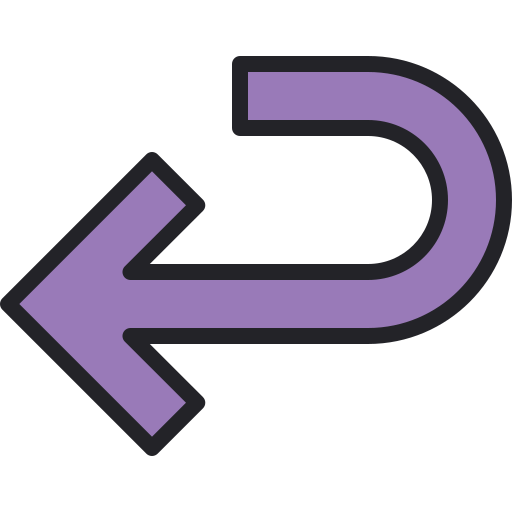
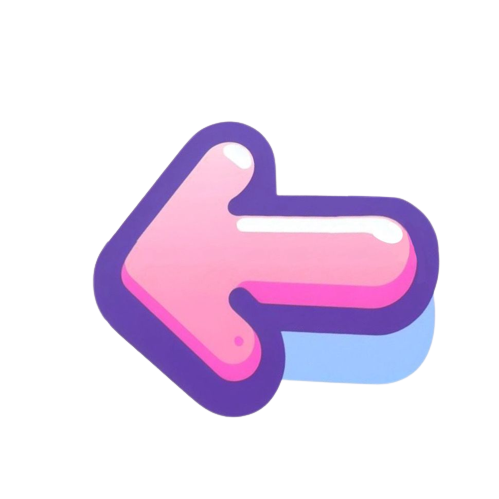
button responsive and back button

diff --git a/styles.css b/styles.css
@@ -1,27 +1,3 @@
-.bingo-board .container {
-    width: calc(33.33% - 10px); /* Ajusta el ancho según tus necesidades */
-    margin: 5px; /* Espacio entre los elementos */
-    text-align: center; /* Alinea el contenido en el centro */
-    background-color: #f0f0f0; /* Color de fondo opcional */
-    border: 1px solid #999; /* Borde opcional */
-  }
-  
-  /* Estilos para pantallas más pequeñas (menos de 600px) */
-  @media (max-width: 600px) {
-    .bingo-board {
-      width: calc(50% - 10px); /* Ajusta el ancho para dos columnas */
-    }
-  }
-  
-  /* Estilos para pantallas aún más pequeñas (menos de 400px) */
-  @media (max-width: 400px) {
-    .bingo-board {
-      width: calc(100% - 10px); /* Un solo elemento por fila */
-    }
-  }
-  
-
-
 body {
     font-family: Arial, sans-serif;
     text-align: center;
@@ -82,7 +58,7 @@ body {
     background-color: #FEB7C9ff;
     display: flex;
     justify-content: space-around;
-    max-width: 20%;
+    max-width: 300px;
     flex: 1;
 }
 
@@ -109,7 +85,7 @@ body {
 .bingo-image-container {
     max-width: 100px;
     width: 100%;
-    background-color: rgb(240, 205, 214);
+    background-color: #FEB7C9ff;
     height: 100px;
     overflow: hidden;
     display: flex;
@@ -120,6 +96,7 @@ body {
 }
 
 .bingo-image-container img {
+    background-color: #FEB7C9ff;
     max-width: 80%;
 }
 
@@ -147,11 +124,17 @@ body {
 .bingo-images-container {
     max-height: 300px;
     overflow-y: auto;
+    background-color: #FEB7C9ff;
     padding: 5px;
     border-radius: 10px;
     box-shadow: 0 0 10px rgba(0, 0, 0, 0.2);
 }
 
+.responsive {
+    display: flex;
+    flex-wrap: wrap;
+    justify-content: space-between;
+}
 
 .bingo-images-container img {
     max-width: 45%;
@@ -208,10 +191,30 @@ body {
 }
 
 .bingo-cell:first-child {
-    background-color: #FEE5A2ff;
+    background-color: #FEB7C9ff;
     color: white;
 }
 
+
+@media screen and (max-width: 768px) {
+    .title {
+        font-size: 24px;
+    }
+    .p {
+        font-size: 18px;
+    }
+    
+    .bingo-board {
+        grid-template-columns: repeat(5, 1fr); /* Cambia a 5 columnas  */
+    }
+
+    .bingo-number {
+        font-size: 1rem; 
+        height: 40px; 
+        width: 40px; 
+    }
+
+}
 
 .bottom-right-container {
     position: fixed;
@@ -233,6 +236,11 @@ body {
     padding: 5px;
 }
 
+.responsive {
+    display: flex;
+    flex-wrap: wrap;
+    justify-content: space-between;
+}
 
 .bingo-images-container img {
     max-width: 80px;
@@ -260,5 +268,27 @@ body {
     
 }
 
+.rotate-button {
+    border: none;
+    background: none;
+    cursor: pointer;
+    display: flex;
+    align-items: center;
+    justify-content: center;
+}
 
+.rotate-button img {
+    width: 24px; /* Adjust the width according to your image */
+    height: 24px; /* Adjust the height according to your image */
+}
+
+.button-atras{
+    background-color: #FEB7C9ff;
+    color: rgb(82, 34, 104);
+    font-family: 'ARCO', sans-serif;
+    max-width: 35px;
+    max-height: 50px;
+    flex: 1;
+    
+}
 

diff --git a/juego.html b/juego.html
@@ -17,6 +17,11 @@
 <body>
     <div class="bingo-container">
         <div class="top-row">
+            <div class="container button-atras">
+                <button class="rotate-button" onclick="location.href='index.html'">
+                    <img src="img/girar-a-la-izquierda.png" alt="Rotate Button">
+                </button>
+            </div>
             <div class="container title-container">
                 <h1>Bingo Go</h1>
             </div>

diff --git a/tarjetas.css b/tarjetas.css
@@ -45,7 +45,7 @@ a:hover {
     justify-items: center;
 }
 
-.button {
+.rotate-button {
     padding: 10px 10px; /* Ajusta el relleno según tus necesidades */
     text-align: center; /* Centra el texto e icono horizontalmente */
     background-color: #FEB7C9ff;
